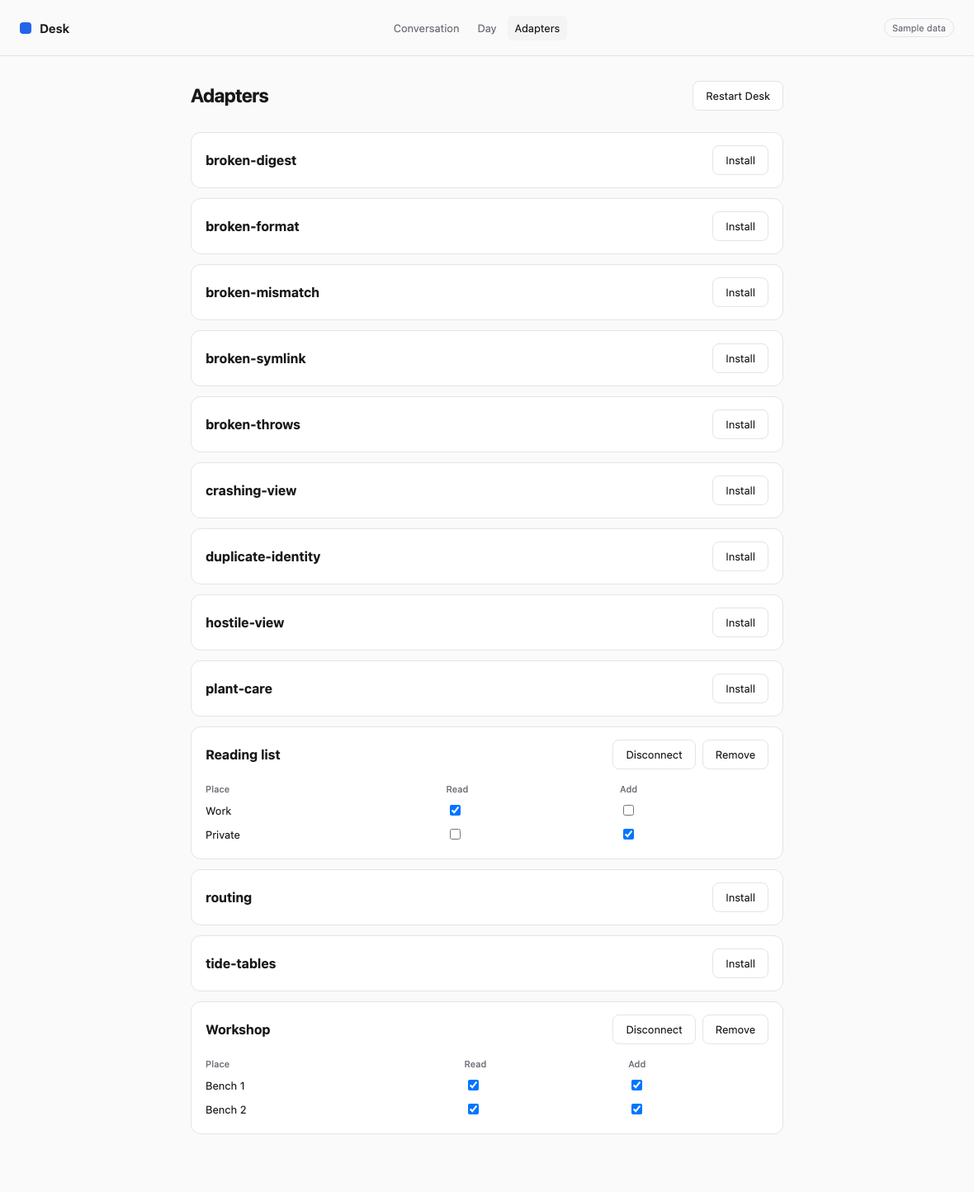
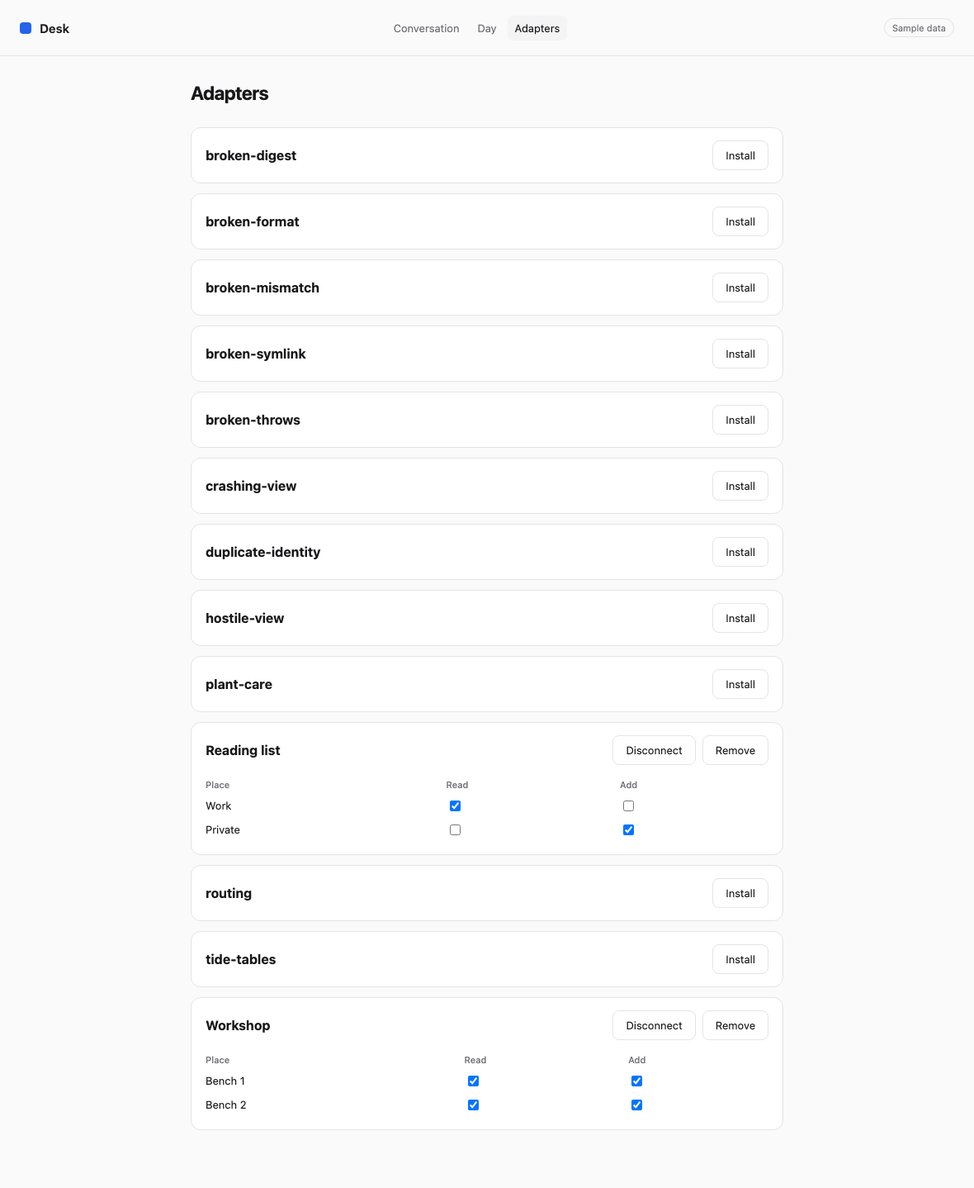
feat(prototype): activate adapters automatically on approval and removal
Throwaway. Refs #3292. Principal correction: a person should not operate
restarts. Install now verifies without running code; Approve and Remove trigger
the managed restart; the manual control is gone.

diff --git a/scripts/probe-desk-extension.ts b/scripts/probe-desk-extension.ts
@@ -27,8 +27,8 @@ page.on("pageerror", error => pageErrors.push(error.message));
 
 const pane = (name: string) => page.getByRole("navigation").getByRole("button", { name, exact: true }).click();
 const row = (sample: string) => page.locator(`[data-sample="${sample}"]`);
-const act = async (sample: string, action: string): Promise<void> => { await row(sample).locator(`[data-do="${action}"]`).click(); await page.waitForTimeout(150); };
-const restart = async (): Promise<void> => { await pane("Adapters"); await page.locator("[data-restart]").click(); await page.waitForTimeout(600); await page.locator("[data-restarting=false]").waitFor({ timeout: 20_000 }); await page.waitForSelector("[data-sample]"); };
+const act = async (sample: string, action: string): Promise<void> => { await row(sample).locator(`[data-do="${action}"]`).click(); await page.waitForTimeout(action === "approve" || action === "remove" ? 500 : 150); await page.locator("[data-restarting=false]").waitFor({ timeout: 20_000 }); await page.waitForSelector("[data-sample]"); };
+const restart = async (): Promise<void> => { await page.evaluate(() => fetch("/__prototype/restart", { method: "POST", body: "{}" })); await page.waitForTimeout(2500); await page.reload(); await page.waitForSelector("[data-extension-prototype]"); await pane("Adapters"); await page.waitForSelector("[data-sample]"); };
 const stateOf = (sample: string) => row(sample).getAttribute("data-state");
 const say = async (text: string): Promise<void> => { await pane("Conversation"); await page.getByLabel("Message Ivy").fill(text); await page.getByRole("button", { name: "Send message" }).click(); await page.waitForTimeout(350); };
 const lastIvy = async (): Promise<string> => (await page.locator(".dcp-ivy p").last().textContent()) ?? "";
@@ -37,9 +37,7 @@ const adapterFrames = (adapterId: string): Promise<Frame[]> => page.locator(`ifr
 const bringUp = async (sample: string, connect = true): Promise<void> => {
   await pane("Adapters");
   await act(sample, "install");
-  await restart();
   await act(sample, "approve");
-  await restart();
   if (connect) await act(sample, "connect");
 };
 const dayText = async (): Promise<string> => { await pane("Day"); return (await page.locator(".dep-day").textContent()) ?? ""; };
@@ -49,10 +47,10 @@ await page.waitForSelector("[data-extension-prototype]");
 
 if (phase === "all" || phase === "a") {
   await pane("Adapters");
+  const startedBefore = (await diagnostics()).startedAt;
   await act("reading-list", "install");
-  check("install alone runs nothing", (await diagnostics()).packages.length === 0 && (await row("reading-list").textContent())?.includes("Nothing runs until") === true);
-  await restart();
-  check("restart stops at approval and adapter code has not run", await stateOf("reading-list") === "awaiting-approval");
+  check("install verifies the package without restarting or running its code", (await diagnostics()).startedAt === startedBefore && await stateOf("reading-list") === "awaiting-approval" && await row("reading-list").locator('[data-do="approve"]').count() === 1);
+  check("no restart control exists", await page.getByRole("button", { name: /restart/i }).count() === 0);
   await say("Turn this into an article");
   check("an unapproved adapter offers no draft", (await lastIvy()).includes("Nothing connected"), await lastIvy());
   await bringUp2("reading-list");
@@ -160,16 +158,14 @@ if (phase === "all" || phase === "a") {
   await shot("missing-object");
   await pane("Adapters");
   await act("reading-list", "remove");
-  check("remove fences immediately", await stateOf("reading-list") === "removing");
+  check("remove applies automatically and physically removes the package", !existsSync(join(state, "packages/reading-list")) && await stateOf("reading-list") === "absent");
   const dayRemoved = await dayText();
   check("remove takes the adapter off Day at once", !dayRemoved.includes("Receipts that survive"), dayRemoved);
   await say("find crash");
   check("remove takes the adapter out of queries at once", (await lastIvy()).includes("Nothing connected"), await lastIvy());
   check("remove keeps the saved receipt", (await page.locator('article[aria-label="Saved article"]').first().textContent())?.includes("Crash-safe receipts") === true);
-  await restart();
-  check("restart physically removes the package", !existsSync(join(state, "packages/reading-list")) && await stateOf("reading-list") === "absent");
+  await pane("Adapters");
   await act("reading-list", "install");
-  await restart();
   check("re-adding needs approval again", await stateOf("reading-list") === "awaiting-approval");
   await bringUp2("reading-list");
   check("re-adding brings the capability back", (await dayText()).includes("Receipts that survive"));
@@ -225,13 +221,13 @@ if (phase === "all" || phase === "b") {
   for (const [sample, code] of [["broken-digest", "digest_mismatch"], ["broken-format", "unsupported_manifest"], ["broken-symlink", "path_escape"], ["duplicate-identity", "duplicate_adapter"]] as const) {
     await pane("Adapters");
     await act(sample, "install");
-    await restart();
     const observed = await row(sample).locator("[data-code]").getAttribute("data-code").catch(() => null);
     check(`${sample} is refused before approval or execution`, observed === code, observed);
     if (sample === "duplicate-identity") {
+      check("installing a duplicate does not disturb the running adapter until the next activation", await stateOf("reading-list") === "active");
+      await restart();
       check("duplicate identity disables both claimants, by name not by search order", await stateOf("reading-list") === "unavailable" && await row("reading-list").locator("[data-code]").getAttribute("data-code") === "duplicate_adapter");
       await act(sample, "remove");
-      await restart();
       check("removing the duplicate restores the original", await stateOf("reading-list") === "active");
     }
   }
@@ -280,7 +276,8 @@ process.exit(checks.every(entry => entry.pass) ? 0 : 1);
 
 async function bringUp2(sample: string): Promise<void> {
   await pane("Adapters");
+  const started = (await diagnostics()).startedAt;
   await act(sample, "approve");
-  await restart();
+  check("approval activates the release automatically", (await diagnostics()).startedAt !== started && await stateOf(sample) === "active");
   await act(sample, "connect");
 }

diff --git a/src/surface/mc/dashboard-v2/desk-extension-prototype-main.tsx b/src/surface/mc/dashboard-v2/desk-extension-prototype-main.tsx
@@ -124,17 +124,17 @@ function Day({ view, run }: { view: View; run: Run }) {
     <ul className="dep-day">{view.day.map(item => <li key={item.key} data-kind={item.kind} data-adapter={item.adapter ?? ""}><div className="dep-day-source">{item.source}{item.area ? ` · ${item.area}` : ""}</div><strong>{item.title}</strong>{item.why && <p>{item.why}</p>}{item.due && <small>Due {item.due}</small>}{item.stale && <small className="dcp-update"> May be out of date</small>}</li>)}</ul></section>;
 }
 
-function Adapters({ view, run, restart }: { view: View; run: Run; restart: () => void }) {
-  return <section aria-label="Adapters"><div className="dcp-heading dep-row"><h1>Adapters</h1><button type="button" data-restart onClick={restart}>Restart Desk</button></div>
+function Adapters({ view, run }: { view: View; run: Run }) {
+  return <section aria-label="Adapters"><div className="dcp-heading dep-row"><h1>Adapters</h1></div>
     <ul className="dep-adapters">{view.adapters.map(adapter => <li key={adapter.sample} data-sample={adapter.sample} data-state={adapter.removing ? "removing" : adapter.state ?? (adapter.installed ? "installed" : "absent")}>
       <div className="dep-row"><strong>{adapter.label ?? adapter.sample}</strong><div className="dep-buttons">
         {!adapter.installed && <button type="button" data-do="install" onClick={() => { void run("/api/adapters/install", { sample: adapter.sample }); }}>Install</button>}
-        {adapter.state === "awaiting-approval" && !adapter.approved && <button type="button" data-do="approve" onClick={() => { void run("/api/adapters/approve", { packageId: adapter.packageId, releaseDigest: adapter.releaseDigest }); }}>Approve this release</button>}
+        {adapter.state === "awaiting-approval" && <button type="button" data-do="approve" onClick={() => { void run("/api/adapters/approve", { packageId: adapter.packageId, releaseDigest: adapter.releaseDigest }); }}>Approve this release</button>}
         {adapter.state === "active" && !adapter.removing && !adapter.connection?.enabled && <button type="button" data-do="connect" onClick={() => { void run("/api/adapters/connect", { adapterId: adapter.adapterId }); }}>Connect</button>}
         {adapter.state === "active" && !adapter.removing && adapter.connection?.enabled && <button type="button" data-do="disconnect" onClick={() => { void run("/api/adapters/disconnect", { adapterId: adapter.adapterId }); }}>Disconnect</button>}
         {adapter.installed && !adapter.removing && <button type="button" data-do="remove" onClick={() => { void run("/api/adapters/remove", { sample: adapter.sample }); }}>Remove</button>}
       </div></div>
-      {adapter.removing ? <p className="dcp-note">Removed from Desk. Saved results stay; its files go at the next restart.</p> : adapter.installed && !adapter.loadedThisRun ? <p className="dcp-note">Installed. Nothing runs until you approve it and restart Desk.</p> : adapter.state === "awaiting-approval" ? <p className="dcp-note">{adapter.approved ? "Approved. Restart Desk to start it." : adapter.message}</p> : adapter.state === "unavailable" ? <p className="dcp-error" data-code={adapter.code}>{adapter.message}</p> : null}
+      {adapter.state === "awaiting-approval" ? <p className="dcp-note">{adapter.message}</p> : adapter.state === "unavailable" ? <p className="dcp-error" data-code={adapter.code}>{adapter.message}</p> : null}
       {adapter.connection?.enabled && adapter.connection.destinations.length > 0 && <table className="dep-scope"><thead><tr><th>Place</th><th>Read</th><th>Add</th></tr></thead><tbody>{adapter.connection.destinations.map((place: any) => <tr key={place.id} data-place={place.label}><td>{place.label}</td>{(["read", "write"] as const).map(kind => <td key={kind}><input type="checkbox" aria-label={`${kind} ${place.label}`} checked={place[kind]} onChange={event => { void run("/api/adapters/destination", { adapterId: adapter.adapterId, id: place.id, kind, allowed: event.target.checked }); }} /></td>)}</tr>)}</tbody></table>}
     </li>)}</ul></section>;
 }
@@ -145,18 +145,19 @@ function App() {
   const [restarting, setRestarting] = useState(false);
   const load = useCallback(async () => { const response = await fetch("/api/view"); setView(await response.json() as View); }, []);
   useEffect(() => { void load(); }, [load]);
-  const run: Run = useCallback(async (path, body) => { const response = await fetch(path, { method: "POST", body: JSON.stringify(body ?? {}) }); if (response.ok) setView(await response.json() as View); }, []);
-  const restart = () => {
+  const run: Run = useCallback(async (path, body) => {
+    const response = await fetch(path, { method: "POST", body: JSON.stringify(body ?? {}) });
+    if (!response.ok) return;
+    const answer = await response.json() as View & { restarting?: boolean };
+    if (!answer.restarting) { setView(answer); return; }
     setRestarting(true);
-    void fetch("/api/adapters/restart", { method: "POST", body: "{}" }).finally(() => {
-      const wait = () => { setTimeout(() => { void load().then(() => { setRestarting(false); }, wait); }, 300); };
-      wait();
-    });
-  };
+    const wait = () => { setTimeout(() => { void load().then(() => { setRestarting(false); }, wait); }, 300); };
+    wait();
+  }, [load]);
   if (!view) return <p className="dep-loading">Loading…</p>;
   return <div className="dcp" data-extension-prototype data-restarting={restarting}>
     <header className="dcp-top"><span className="dcp-brand"><span className="desk-mark" />Desk</span><nav className="dep-nav">{(["conversation", "day", "adapters"] as const).map(name => <button type="button" key={name} aria-current={pane === name ? "page" : undefined} onClick={() => { setPane(name); }}>{name === "conversation" ? "Conversation" : name === "day" ? "Day" : "Adapters"}</button>)}</nav><span className="dcp-sample">Sample data</span></header>
-    <main className="dcp-main">{restarting ? <p role="status">Restarting Desk…</p> : pane === "conversation" ? <Conversation view={view} run={run} /> : pane === "day" ? <Day view={view} run={run} /> : <Adapters view={view} run={run} restart={restart} />}</main>
+    <main className="dcp-main">{restarting ? <p role="status">Applying the change…</p> : pane === "conversation" ? <Conversation view={view} run={run} /> : pane === "day" ? <Day view={view} run={run} /> : <Adapters view={view} run={run} />}</main>
   </div>;
 }
 

diff --git a/src/conversations/domain-adapters/extension-prototype/host.ts b/src/conversations/domain-adapters/extension-prototype/host.ts
@@ -5,7 +5,7 @@ import { canonicalSchema } from "../schema-validation";
 import { ApprovedSnapshotSchema, DispatchRequestSchema, ObjectReadbackSchema, OwnerResultSchema, OwnerSupportSchema } from "../operations/types";
 import type { ObjectReference, SchemaRef } from "../types";
 import { ReadResponseSchema, type DraftingBinding, type PackagedConnector, type ReadBinding } from "./contract";
-import { containedFile, loadPackages, type LoadedPackage, type LoadResult } from "./loader";
+import { containedFile, inspectPackage, loadPackages, type LoadedPackage, type LoadResult } from "./loader";
 
 type Json = unknown;
 type Fields = Record<string, Json>;
@@ -38,6 +38,7 @@ export const draftDigest = (draft: Pick<Draft, "capabilityId" | "fields">): stri
 export class ExtensionHost {
   state: State;
   loaded!: LoadResult;
+  readonly startedAt = new Date().toISOString();
   private readonly continuations = new Map<string, { adapterId: string; capabilityId: string; revision: number; input: Json; cursor: string; expires: number }>();
   private readonly statePath: string;
   readonly packagesRoot: string;
@@ -359,19 +360,30 @@ export class ExtensionHost {
   }
 
   listSamples(): string[] { return existsSync(this.samplesRoot) ? [...new Bun.Glob("*/desk-adapter.json").scanSync(this.samplesRoot)].map(path => path.split("/")[0] ?? "").sort() : []; }
-  install(sample: string): void { if (!this.listSamples().includes(sample)) return; mkdirSync(this.packagesRoot, { recursive: true }); cpSync(join(this.samplesRoot, sample), join(this.packagesRoot, sample), { recursive: true, verbatimSymlinks: true }); this.save(); }
-  approvePackage(packageId: string, releaseDigest: string): void { this.state.approvals[packageId] = releaseDigest; this.save(); }
+  install(sample: string): void { if (!this.listSamples().includes(sample)) return; mkdirSync(this.packagesRoot, { recursive: true }); cpSync(join(this.samplesRoot, sample), join(this.packagesRoot, sample), { recursive: true, verbatimSymlinks: true }); this.loaded.diagnostics = [...this.loaded.diagnostics.filter(entry => entry.dir !== sample), inspectPackage(this.packagesRoot, sample, new Set(this.loaded.active.map(entry => entry.manifest.declaration.adapterId)))]; this.save(); }
+  approvePackage(packageId: string, releaseDigest: string): boolean {
+    const known = this.loaded.diagnostics.some(entry => entry.state === "awaiting-approval" && entry.packageId === packageId && entry.releaseDigest === releaseDigest);
+    if (!known) return false;
+    this.state.approvals[packageId] = releaseDigest;
+    this.save();
+    return true;
+  }
 
-  remove(sample: string): void {
+  remove(sample: string): boolean {
     const diagnostic = this.loaded.diagnostics.find(entry => entry.dir === sample);
     const loaded = this.loaded.active.find(entry => this.dirOf(entry) === sample);
     if (diagnostic?.packageId) delete this.state.approvals[diagnostic.packageId];
+    const needsRestart = !!loaded || diagnostic?.code === "duplicate_adapter";
     if (loaded) {
       this.state.fenced[sample] = true;
       const connection = this.state.connections[loaded.manifest.declaration.adapterId];
       if (connection) { connection.enabled = false; connection.revision += 1; }
-    } else rmSync(join(this.packagesRoot, sample), { recursive: true, force: true });
+    } else {
+      rmSync(join(this.packagesRoot, sample), { recursive: true, force: true });
+      this.loaded.diagnostics = this.loaded.diagnostics.filter(entry => entry.dir !== sample);
+    }
     this.save();
+    return needsRestart;
   }
 
   async connect(adapterId: string, accountScope: Record<string, unknown>, configuration: Record<string, unknown>): Promise<void> {
@@ -428,6 +440,6 @@ export class ExtensionHost {
   }
 
   diagnostics(): Record<string, Json> {
-    return { ownerCalls: this.state.ownerCalls, deniedAttempts: this.state.deniedAttempts, frameIncidents: this.state.frameIncidents, projectionRows: Object.keys(this.state.projection).length, evidenceEntries: Object.keys(this.state.evidence).length, quarantined: this.state.quarantined, packages: this.loaded.diagnostics };
+    return { startedAt: this.startedAt, ownerCalls: this.state.ownerCalls, deniedAttempts: this.state.deniedAttempts, frameIncidents: this.state.frameIncidents, projectionRows: Object.keys(this.state.projection).length, evidenceEntries: Object.keys(this.state.evidence).length, quarantined: this.state.quarantined, packages: this.loaded.diagnostics };
   }
 }

diff --git a/scripts/prototype-desk-extension.ts b/scripts/prototype-desk-extension.ts
@@ -36,6 +36,7 @@ const common = { "Cache-Control": "no-store", "X-Content-Type-Options": "nosniff
 const parentPolicy = `default-src 'self'; script-src 'self'; style-src 'self' 'unsafe-inline'; img-src 'self' data:; connect-src 'self'; frame-src ${origin}/adapter-assets/; object-src 'none'; base-uri 'none'; form-action 'none'`;
 const framePolicy = (digest: string): string => `default-src 'none'; script-src ${origin}/adapter-assets/${digest}/; style-src ${origin}/adapter-assets/${digest}/ 'unsafe-inline'; connect-src 'none'; img-src 'none'; font-src 'none'; frame-src 'none'; worker-src 'none'; object-src 'none'; base-uri 'none'; form-action 'none'`;
 const json = (value: unknown): Response => Response.json(value, { headers: common });
+const managedRestart = (): Response => { setTimeout(() => process.exit(RESTART), 50); return json({ restarting: true }); };
 
 Bun.serve({ hostname: "127.0.0.1", port, idleTimeout: 60, async fetch(request) {
   const url = new URL(request.url);
@@ -51,12 +52,12 @@ Bun.serve({ hostname: "127.0.0.1", port, idleTimeout: 60, async fetch(request) {
     case "/api/refresh": await host.poll(); return json(host.view());
     case "/api/frame-incident": host.frameIncident(body.adapterId, body.reason); return json({ ok: true });
     case "/api/adapters/install": host.install(body.sample); return json(host.view());
-    case "/api/adapters/approve": host.approvePackage(body.packageId, body.releaseDigest); return json(host.view());
-    case "/api/adapters/remove": host.remove(body.sample); return json(host.view());
+    case "/api/adapters/approve": return host.approvePackage(body.packageId, body.releaseDigest) ? managedRestart() : new Response("Unknown release", { status: 409, headers: common });
+    case "/api/adapters/remove": return host.remove(body.sample) ? managedRestart() : json(host.view());
     case "/api/adapters/connect": await host.connect(body.adapterId, { account: "prototype-account" }, {}); return json(host.view());
     case "/api/adapters/disconnect": host.disconnect(body.adapterId); return json(host.view());
     case "/api/adapters/destination": host.setDestination(body.adapterId, body.id, body.kind, body.allowed); return json(host.view());
-    case "/api/adapters/restart": setTimeout(() => process.exit(RESTART), 50); return json({ restarting: true });
+    case "/__prototype/restart": return managedRestart();
     case "/__prototype/diagnostics": return json({ ...host.diagnostics(), syntheticReceiverRequests: received });
     default:
   }

diff --git a/src/conversations/domain-adapters/extension-prototype/loader.ts b/src/conversations/domain-adapters/extension-prototype/loader.ts
@@ -57,6 +57,18 @@ async function stage(dir: string, manifest: PackageManifest, releaseDigest: stri
   return { manifest, dir, releaseDigest, connectors, bindings: created.bindings as LoadedPackage["bindings"] };
 }
 
+export function inspectPackage(root: string, name: string, claimedAdapters: Set<string>): PackageDiagnostic {
+  const dir = join(root, name);
+  try {
+    const { manifest, releaseDigest } = verifiedManifest(dir);
+    const base = { dir: name, packageId: manifest.packageId, releaseDigest, packageVersion: manifest.packageVersion, label: manifest.declaration.label };
+    if (claimedAdapters.has(manifest.declaration.adapterId)) return { ...base, state: "unavailable", code: "duplicate_adapter", message: "Another installed package claims the same adapter identity; neither is used." };
+    return { ...base, state: "awaiting-approval", message: "Approve this exact release before Desk runs its code." };
+  } catch (error) {
+    return { dir: name, packageId: name, state: "unavailable", code: error instanceof Refused ? error.code : "load_failed", message: error instanceof Refused ? error.message : "The package could not be read." };
+  }
+}
+
 export async function loadPackages(root: string, approvals: Record<string, string>): Promise<LoadResult> {
   const registry = new DomainAdapterRegistry();
   const diagnostics: PackageDiagnostic[] = [];

diff --git a/docs/prototypes/desk-extension/README.md b/docs/prototypes/desk-extension/README.md
@@ -11,7 +11,7 @@ bun install --frozen-lockfile
 bun scripts/prototype-desk-extension.ts --fresh --port 33594
 ```
 
-Open <http://127.0.0.1:33594/>. Under Adapters: Install, Restart Desk, Approve this release, Restart Desk, Connect. Then try the sentences below. All data is synthetic, with no provider, credential or account.
+Open <http://127.0.0.1:33594/>. Under Adapters: Install, Approve this release, Connect. Approving and removing restart Desk for you. Then try the sentences below. All data is synthetic, with no provider, credential or account.
 
 | Adapter | Try |
 | --- | --- |
@@ -20,7 +20,9 @@ Open <http://127.0.0.1:33594/>. Under Adapters: Install, Restart Desk, Approve t
 | `plant-care`, written without seeing the host | `I bought a monstera for the study.`, then `Turn this into a plant` |
 | `tide-tables`, read-only, no custom view | `find spring`; `Turn this into a tide` |
 | `routing`, a schema the shared editor cannot represent | `Turn this into a route` |
-| `broken-*`, `duplicate-identity`, `crashing-view`, `hostile-view` | Install and restart: each is refused, or falls back to the safe rendering |
+| `broken-digest`, `broken-format`, `broken-symlink`, `duplicate-identity` | Install: refused without running any code |
+| `broken-throws`, `broken-mismatch` | Install, approve: unavailable, and other adapters keep working |
+| `crashing-view`, `hostile-view` | Install, approve, Connect, `find Prop`: falls back to the safe rendering |
 
 Clear a Read or Add box under Adapters to see a denied destination. Remove takes an adapter out at once and keeps saved receipts.
 
@@ -44,13 +46,14 @@ Clear a Read or Add box under Adapters to see a denied destination. Remove takes
 | F5 | `registerConnector(capabilityId, connection => connector)` | `OwnerSupport` names a connection, but module registration happens before any connection exists | #3309, #3321 |
 | F6 | Stop requiring a registry handler for `action` capabilities | Actions dispatch through the connector, so every package ships a dead throwing stub. Merged registry change. | #3299 follow-up, #3309 |
 | F7 | Pin the drafting field hint vocabulary: `role`, `resolveWith`, `widget` | The approved binding names field hints but not their meanings | #3318 |
-| F8 | Verify manifests at install, without running code | Approval needs the release digest, and this prototype only learns it at restart, forcing an extra restart | #3321, #3324 |
+| F8 | Verify manifests at install, without running code | Approval needs the release digest; the first version of this prototype learned it only at restart. Implemented here. | #3321, #3324 |
 | F9 | Define what `readbackCapabilityId` must point to | The blind author had to guess; the prototype never checks it | #3310 |
+| F11 | No manual restart: Approve and Remove each trigger the managed activation; Install never does | Principal ruling on acceptance. A person should not operate restarts. Installation still restarts nothing. | #3321, #3324, #3313 |
 | F10 | Default query results to host rendering; mount a custom view for an opened object | One sandboxed frame per result item is heavy: one conversation mounted 8 | #3326, #3329 |
 
 ## Edits the real Desk still needs
 
-None of these branches on an adapter's domain. No existing file differs from main on this branch, because the prototype runs in its own shell.
+None of these branches on an adapter's domain. No existing source file differs from main on this branch, because the prototype runs in its own shell.
 
 | Core seam | Edit | Evidence |
 | --- | --- | --- |

diff --git a/AGENTS.md b/AGENTS.md
@@ -16,3 +16,4 @@ When the principal corrects an agent for a mistake, fix the mistake, then add or
 | No new comments; say it in code. `eslint-disable` does nothing. Tool directives (`prettier-ignore`, `glossary-ignore:`) are allowed. | `cortex/no-comments` (`eslint/no-comments.ts`) with `noInlineConfig`; `eslint/suppressions-guard.ts` keeps `eslint-suppressions.json` from growing. | No past commit yet: a comment added to `src/common/network-id.ts` fails lint, and re-suppressing it fails the guard. |
 | A caught error is logged, or its reason is said in code. | Docs only (`CLAUDE.md`); the comment ban removes the old "explain it in a comment" escape. | — |
 | Studio status metadata is readable in cloud conversations; local-only evidence stays restricted and denials explain the required context. | `src/surface/mc/__tests__/conversation-work-context.test.ts`: mixed-policy transport, private-failure redaction, denial-context and forged-release regressions. | `a253578` (v6.21.0): the actual cloud conversation received bare `unauthorized`; regression commit `f969653` reproduces the failure before the fix. |
+| Adapter activation is automatic: Approve and Remove trigger the managed restart, Install restarts nothing, and no person operates a restart control. | `scripts/probe-desk-extension.ts`: “no restart control exists”, “approval activates the release automatically”, “install verifies the package without restarting or running its code”. | `cfddfed`: the Adapters page needed a manual Restart Desk click after install and again after approval. |

diff --git a/docs/prototypes/desk-extension/AUTHORING.md b/docs/prototypes/desk-extension/AUTHORING.md
@@ -49,13 +49,12 @@ The frame's CSP allows scripts and styles only from its own asset path, plus inl
 bun scripts/prototype-desk-extension.ts --fresh --port <port> --state <dir> --samples <dir containing your package directory>
 ```
 
-Under Adapters: Install, restart, approve, restart, Connect. The package identity and digest appear only after the first restart. `sample` is the package's directory name. The JSON API a script can use, all POST with an `Origin` header equal to the server origin:
+Under Adapters: Install, approve, Connect. Install verifies the package without running it; approving restarts Desk automatically. `sample` is the package's directory name. The JSON API a script can use, all POST with an `Origin` header equal to the server origin:
 
 | Path | Body |
 | --- | --- |
 | `/api/adapters/install` | `{ sample }` |
-| `/api/adapters/approve` | `{ packageId, releaseDigest }`, both from `GET /api/view` `adapters[]` |
-| `/api/adapters/restart` | `{}`, then wait about 3 s |
+| `/api/adapters/approve` | `{ packageId, releaseDigest }`, both from `GET /api/view` `adapters[]`; Desk then restarts, so wait about 3 s |
 | `/api/adapters/connect` | `{ adapterId }` |
 | `/api/say` | `{ text }`, for example `find X` or `Turn this into a <label>` |
 | `/api/draft/edit` | `{ id, revision, changes }`, where `changes` is `{ fieldName: value }` |
